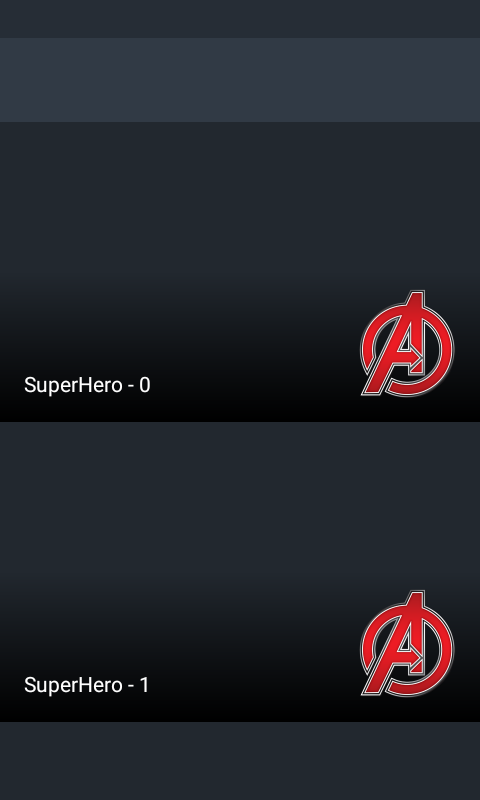
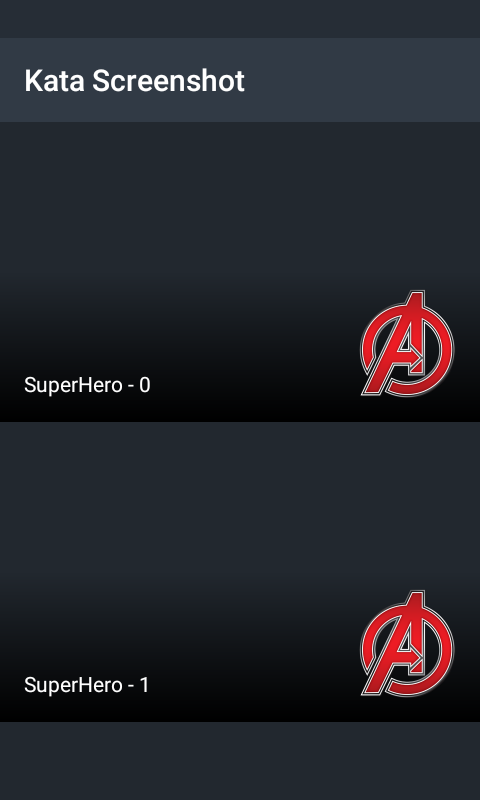
Show the activity title with the appcompat toolbar

Changed region(s): [[0.0312, 0.0625, 0.5312, 0.125]]

diff --git a/app/src/main/java/com/karumi/ui/view/SuperHeroDetailActivity.kt b/app/src/main/java/com/karumi/ui/view/SuperHeroDetailActivity.kt
@@ -2,6 +2,7 @@ package com.karumi.ui.view
 
 import android.app.Activity
 import android.content.Intent
+import android.support.v7.widget.Toolbar
 import android.view.View
 import com.github.salomonbrys.kodein.Kodein.Module
 import com.github.salomonbrys.kodein.bind
@@ -29,8 +30,14 @@ class SuperHeroDetailActivity : BaseActivity(), SuperHeroDetailPresenter.View {
     override val presenter: SuperHeroDetailPresenter by injector.instance()
 
     override val layoutId: Int = R.layout.super_hero_detail_activity
-    override fun preparePresenter(intent: Intent?) =
-        presenter.preparePresenter(intent?.extras?.getString(SUPER_HERO_NAME_KEY))
+    override val toolbarView: Toolbar
+        get() = toolbar
+
+    override fun preparePresenter(intent: Intent?) {
+        val superHeroName = intent?.extras?.getString(SUPER_HERO_NAME_KEY)
+        title = superHeroName
+        presenter.preparePresenter(superHeroName)
+    }
 
     override fun close() = finish()
 
@@ -52,8 +59,7 @@ class SuperHeroDetailActivity : BaseActivity(), SuperHeroDetailPresenter.View {
 
     override val activityModules = Module(allowSilentOverride = true) {
         bind<SuperHeroDetailPresenter>() with provider {
-            SuperHeroDetailPresenter(this@SuperHeroDetailActivity,
-                instance())
+            SuperHeroDetailPresenter(this@SuperHeroDetailActivity, instance())
         }
         bind<GetSuperHeroByName>() with provider { GetSuperHeroByName(instance()) }
     }

diff --git a/app/src/main/java/com/karumi/ui/view/BaseActivity.kt b/app/src/main/java/com/karumi/ui/view/BaseActivity.kt
@@ -2,6 +2,7 @@ package com.karumi.ui.view
 
 import android.content.Intent
 import android.os.Bundle
+import android.support.v7.widget.Toolbar
 import com.github.salomonbrys.kodein.Kodein.Module
 import com.github.salomonbrys.kodein.android.KodeinAppCompatActivity
 import com.karumi.asApp
@@ -13,12 +14,14 @@ abstract class BaseActivity : KodeinAppCompatActivity(), LifecyclePublisher by l
 
     abstract val layoutId: Int
     abstract val presenter: LifecycleSubscriber
+    abstract val toolbarView: Toolbar
     abstract val activityModules: Module
 
     override fun onCreate(savedInstanceState: Bundle?) {
         applicationContext.asApp().addModule(activityModules)
         super.onCreate(savedInstanceState)
         setContentView(layoutId)
+        setSupportActionBar(toolbarView)
         register(presenter)
         preparePresenter(intent)
         initialize()

diff --git a/app/src/main/java/com/karumi/ui/view/MainActivity.kt b/app/src/main/java/com/karumi/ui/view/MainActivity.kt
@@ -2,6 +2,7 @@ package com.karumi.ui.view
 
 import android.os.Bundle
 import android.support.v7.widget.LinearLayoutManager
+import android.support.v7.widget.Toolbar
 import android.view.View
 import com.github.salomonbrys.kodein.Kodein.Module
 import com.github.salomonbrys.kodein.bind
@@ -19,6 +20,8 @@ class MainActivity : BaseActivity(), SuperHeroesPresenter.View {
     override val presenter: SuperHeroesPresenter by injector.instance()
     private lateinit var adapter: SuperHeroesAdapter
     override val layoutId: Int = R.layout.main_activity
+    override val toolbarView: Toolbar
+        get() = toolbar
 
     override fun onCreate(savedInstanceState: Bundle?) {
         super.onCreate(savedInstanceState)
